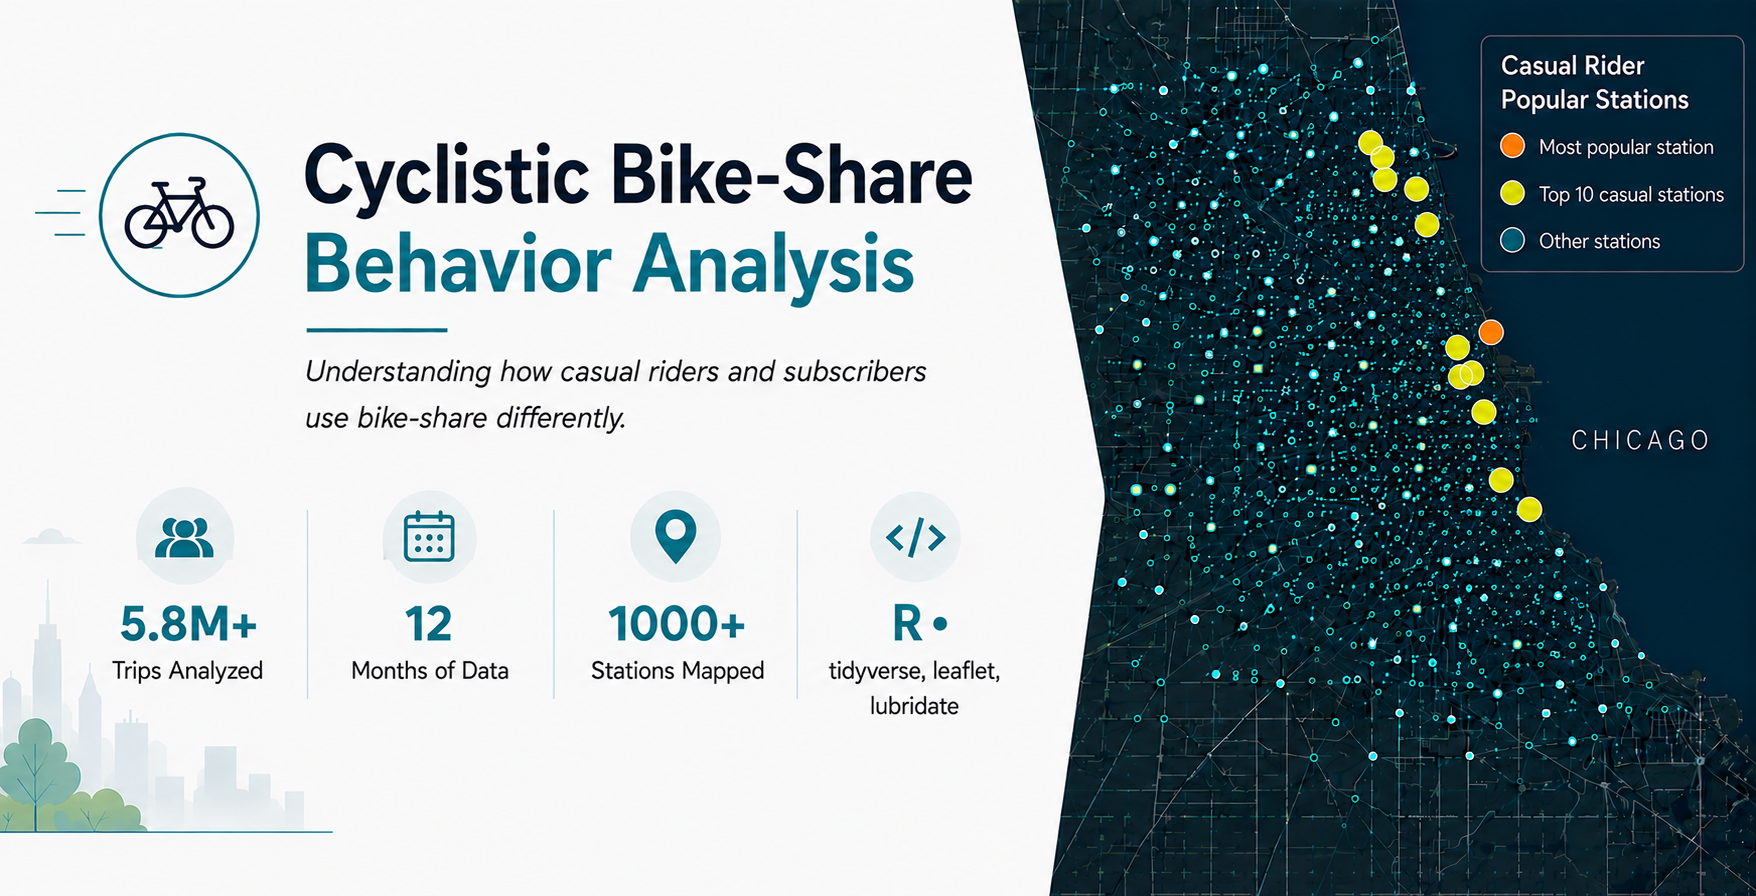
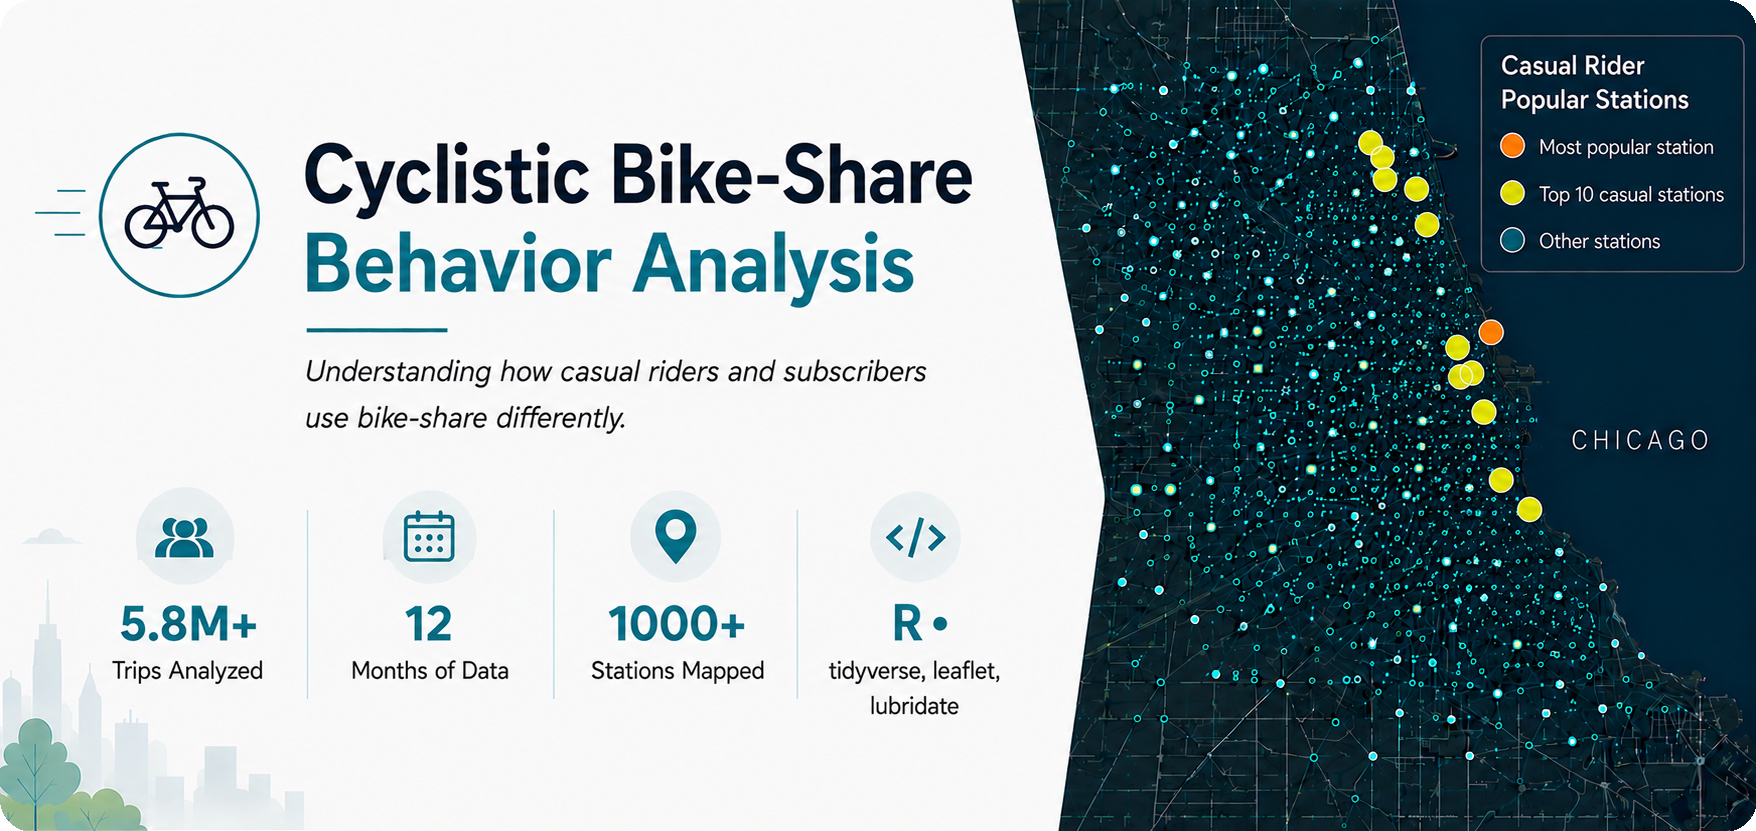
Polish README cover and layout
- Cropped cover image with rounded corners
- Removed blockquote style from business question and quick summary

diff --git a/README.md b/README.md
@@ -4,9 +4,9 @@
 
 This analysis used 5.8M+ Chicago bike-share trips to compare how casual riders and members use the service. The goal was to uncover behavior patterns that could support better membership conversion strategies.
 
-> **Business Question:** How do casual riders and members behave differently, and how can Cyclistic convert more casual riders into members?
+**Business Question:** How do casual riders and members behave differently, and how can Cyclistic convert more casual riders into members?
 
-> **Quick Summary:** Casual riders behave more recreationally, especially around weekends, warmer months, longer rides, higher electric bike usage, and higher use of lakefront/downtown stations. This suggests Cyclistic should target recreational casual riders with seasonal or weekend focused membership offers in popular casual zones, then test whether those offers increase conversion.
+**Quick Summary:** Casual riders behave more recreationally, especially around weekends, warmer months, longer rides, higher electric bike usage, and higher use of lakefront/downtown stations. This suggests Cyclistic should target recreational casual riders with seasonal or weekend focused membership offers in popular casual zones, then test whether those offers increase conversion.
 
 
 
@@ -163,7 +163,6 @@ station_name_instances <- bind_rows(
   count(station_id, name = "name_count") %>%
   filter(name_count > 1) %>%
   arrange(desc(name_count))
-
 ```
 </details>
 
@@ -213,7 +212,6 @@ ride_length_hist_plot <- ggplot(all_trips2 %>%
   scale_fill_manual(values = c("classic_bike" = "#F2FC67", "electric_bike" = "#4095A5", "docked_bike" = "#F28E2B"))
 
 ride_length_hist_plot
-
 ```
 </details>
 
@@ -344,7 +342,7 @@ trip_distance_plot
 ```
 </details>
 
-### Electric bikes represent a larger share of casual rider activity
+### Electric bikes represent a larger share of casual rides
 
 Electric bikes made up a larger portion of casual rider trips than member trips. This suggests electric bike access may be an attractive part of the casual experience and could be worth considering when creating targeted offers.
 
@@ -404,7 +402,7 @@ monthly_trip_count_plot
 </details>
 
 
-### Casual demand is geographically concentrated
+### Casual activity is concentrated within the downtown lakefront area
 The highest casual station activity clusters around areas near the downtown lakefront, suggesting that conversion efforts should focus on these areas instead of being citywide.
 
 ![Top casual rider stations](assets/hbar_popular_stations.png)
@@ -469,12 +467,12 @@ stations_map_highlight
 
 ### 1. Target casual riders near lakefront and downtown stations
 
-Casual rider activity is clearly concentrated around the lakefront and downtown stations. Conversion campaigns should focus on these areas during high activity months instead of spreading marketing evenly across all stations.
+Casual rider activity is clearly concentrated around the lakefront and downtown stations. Conversion campaigns should focus on these areas during busy months instead of spreading marketing across all stations.
 
 
 ### 2. Launch seasonal campaigns before peak demand
 
-Ride volume rises sharply during warmer months. Campaigns should begin in spring, before the casual rider peak so the memberships can feel useful before their riding season.
+Ride volume rises sharply during warmer months. Campaigns should begin in spring, before the casual rider peak so that memberships can feel useful before their riding season.
 
 
 ### 3. Test weekend-to-member conversion offers